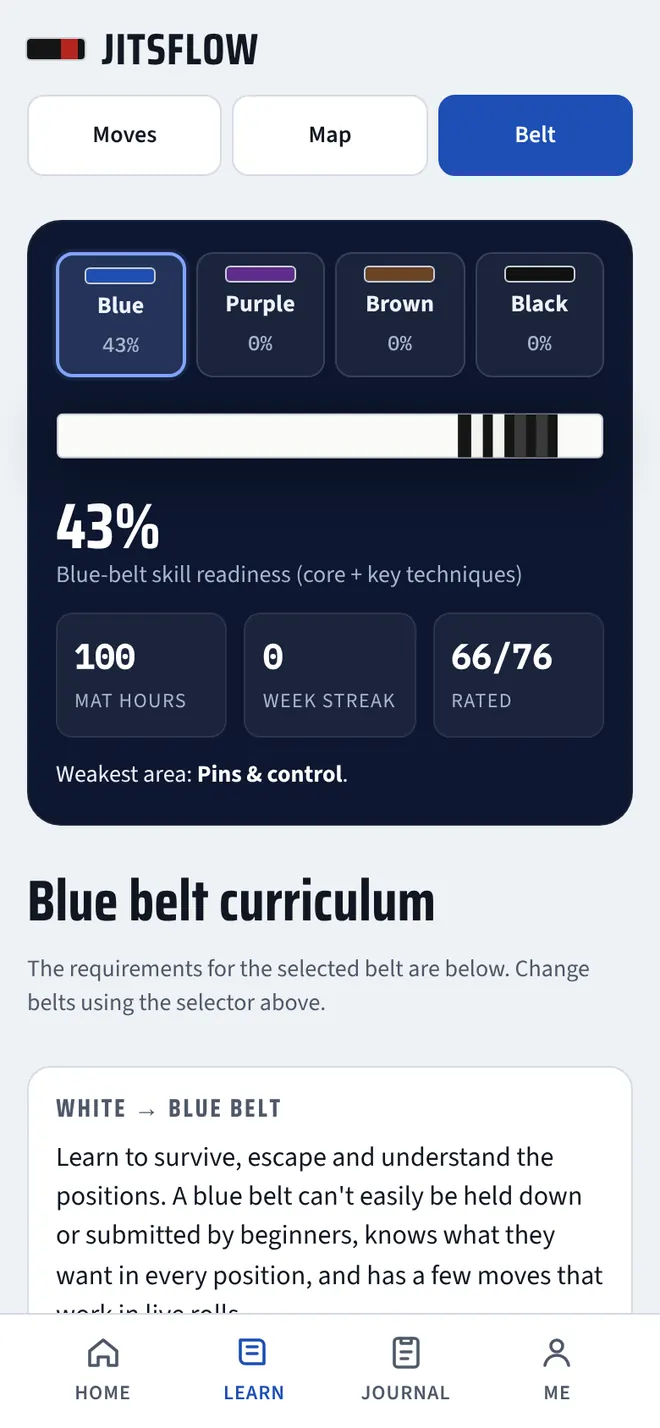
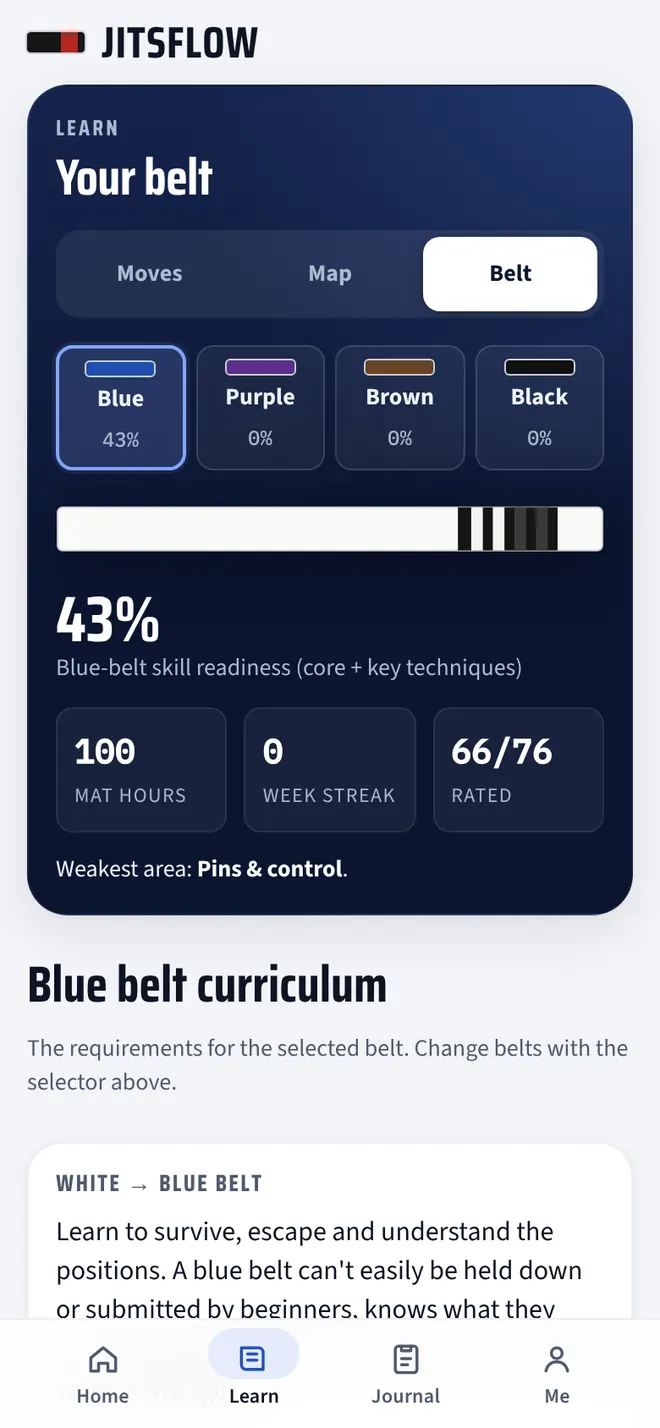
Landing page: app screens recaptured in the new look, chain trees opened
Claude-Session: https://claude.ai/code/session_01WioTpsaqnQ35tQcnezfcqE

diff --git a/tools/landing-media.js b/tools/landing-media.js
@@ -72,10 +72,12 @@ async function screens(p) {
     lsSet(tipStore(), Object.fromEntries(Object.keys(TIPS).map((k) => [k, -1]))); // no first-visit tips in the pictures
     hideSheet(); render();
   });
+  const openFold = async () => { await p.evaluate(() => { const d = document.getElementById("flow-chains"); if (d && d.tagName === "DETAILS") d.open = true; else if (d) d.querySelector("summary,button")?.click(); }); await p.waitForTimeout(400); };
   const toHeading = (re) => p.evaluate((src) => { const h = [...document.querySelectorAll("h2.label")].find((x) => new RegExp(src).test(x.textContent)); if (h) window.scrollTo(0, h.getBoundingClientRect().top + window.scrollY - 14); }, re);
   const shots = {
-    chains: async () => { await p.evaluate(() => { S.ui.flowSel = "cg_bot"; go("learn-map"); }); await toHeading("Your attack chains"); },
-    defense: async () => { await p.evaluate(() => { S.ui.flowSel = "mount_bot"; go("learn-map"); }); await toHeading("Their attacks"); },
+    // The chain trees sit in a fold under the map: open it, then frame the tree.
+    chains: async () => { await p.evaluate(() => { S.ui.flowSel = "cg_bot"; go("learn-map"); }); await openFold(); await toHeading("Your attack chains"); },
+    defense: async () => { await p.evaluate(() => { S.ui.flowSel = "mount_bot"; go("learn-map"); }); await openFold(); await toHeading("Their attacks"); },
     belt: async () => { await p.evaluate(() => { S.ui.belt = "blue"; go("learn-belt"); }); },
     map: async () => { await p.evaluate(() => { S.ui.flowSel = "cg_bot"; go("learn-map"); }); },
   };
